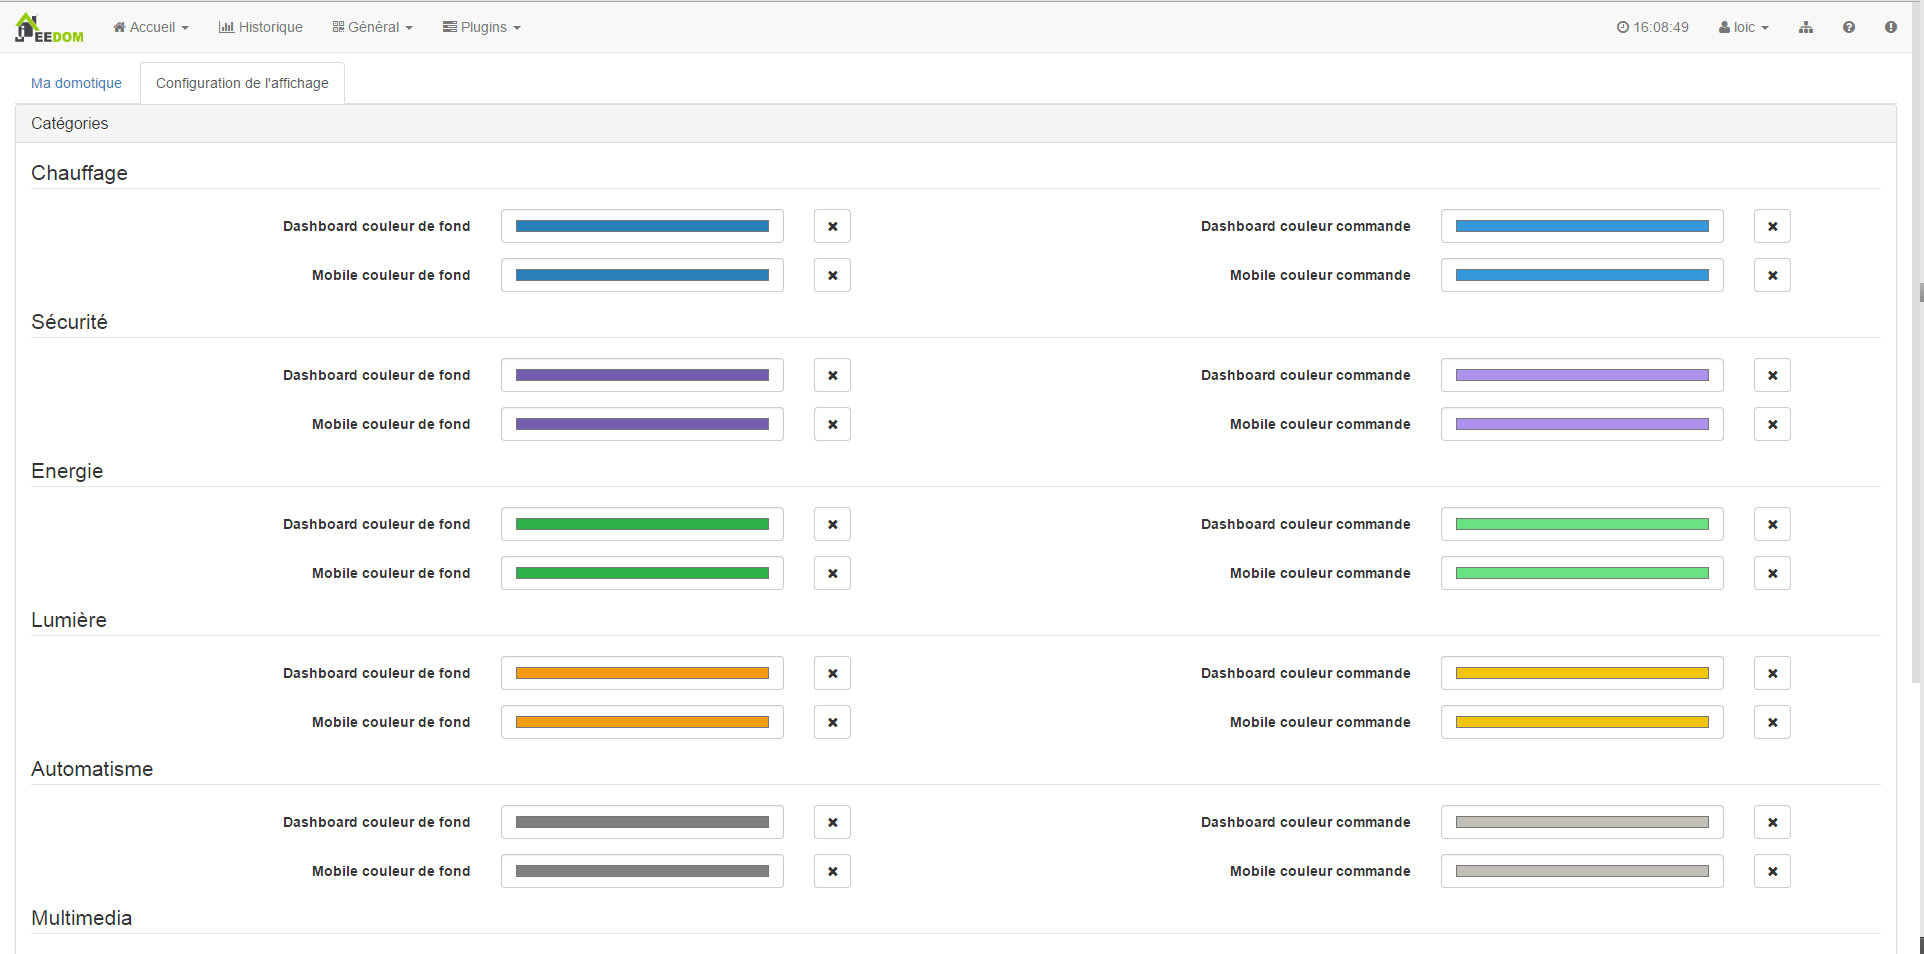
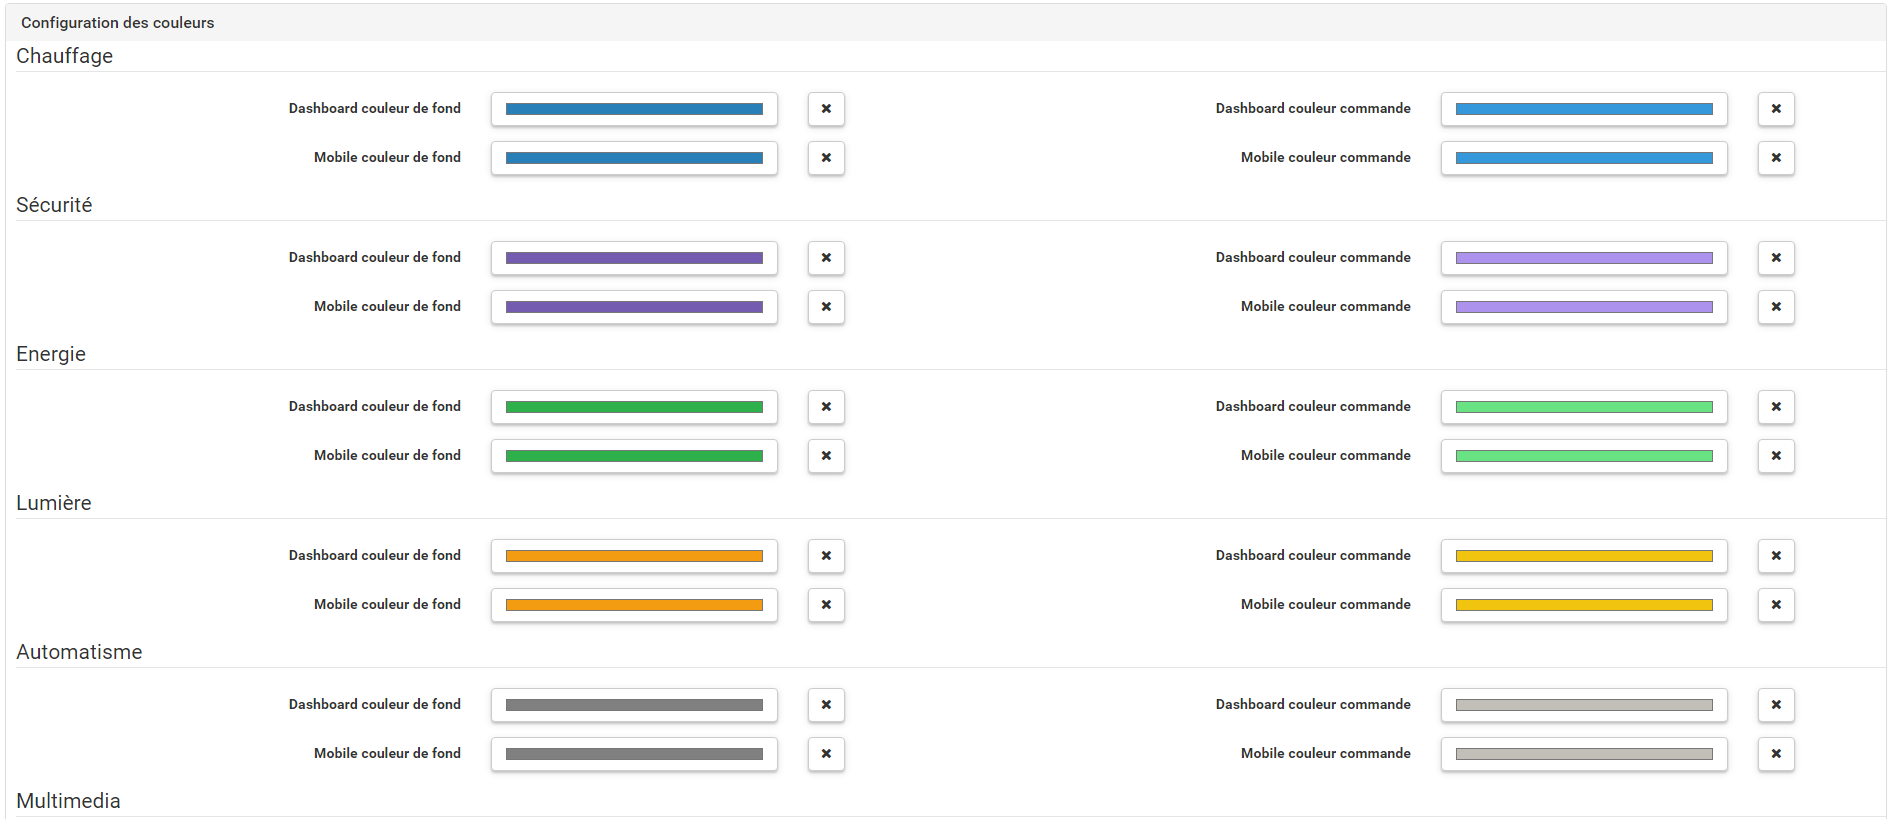
UI improvement + update odc

diff --git a/desktop/php/administration.php b/desktop/php/administration.php
@@ -463,6 +463,7 @@ if (config::byKey('market::allowDNS') == 1 && $externalTest) {
     <div id="config_color" class="panel-collapse collapse">
         <form class="form-horizontal">
             <fieldset>
+               <div  style="margin-left:10px;">
                 <?php
 foreach (jeedom::getConfiguration('eqLogic:category') as $key => $category) {
 		echo '<legend>' . $category['name'] . '</legend>';
@@ -500,6 +501,7 @@ foreach (jeedom::getConfiguration('eqLogic:category') as $key => $category) {
 		echo '</div>';
 	}
 	?>
+    </div>
             </fieldset>
         </form>
 
